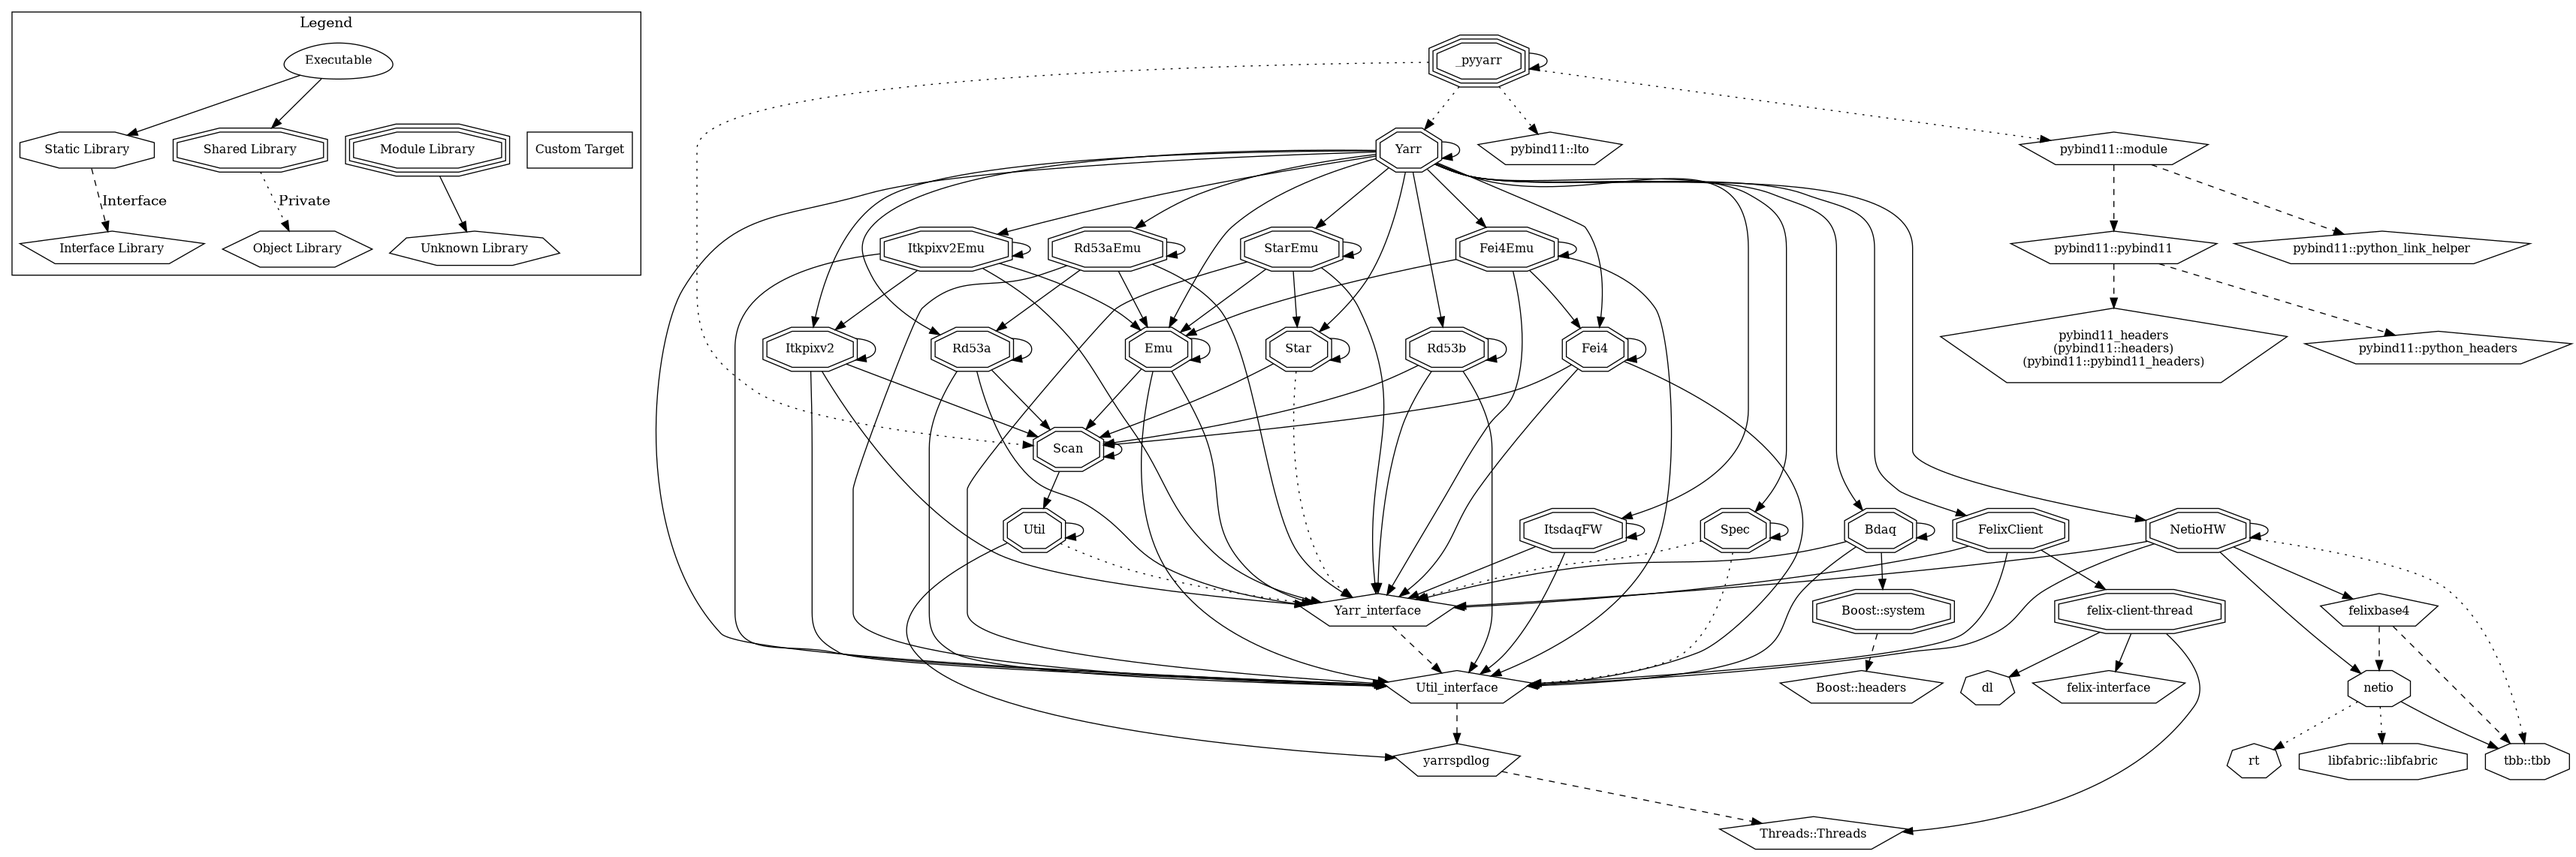
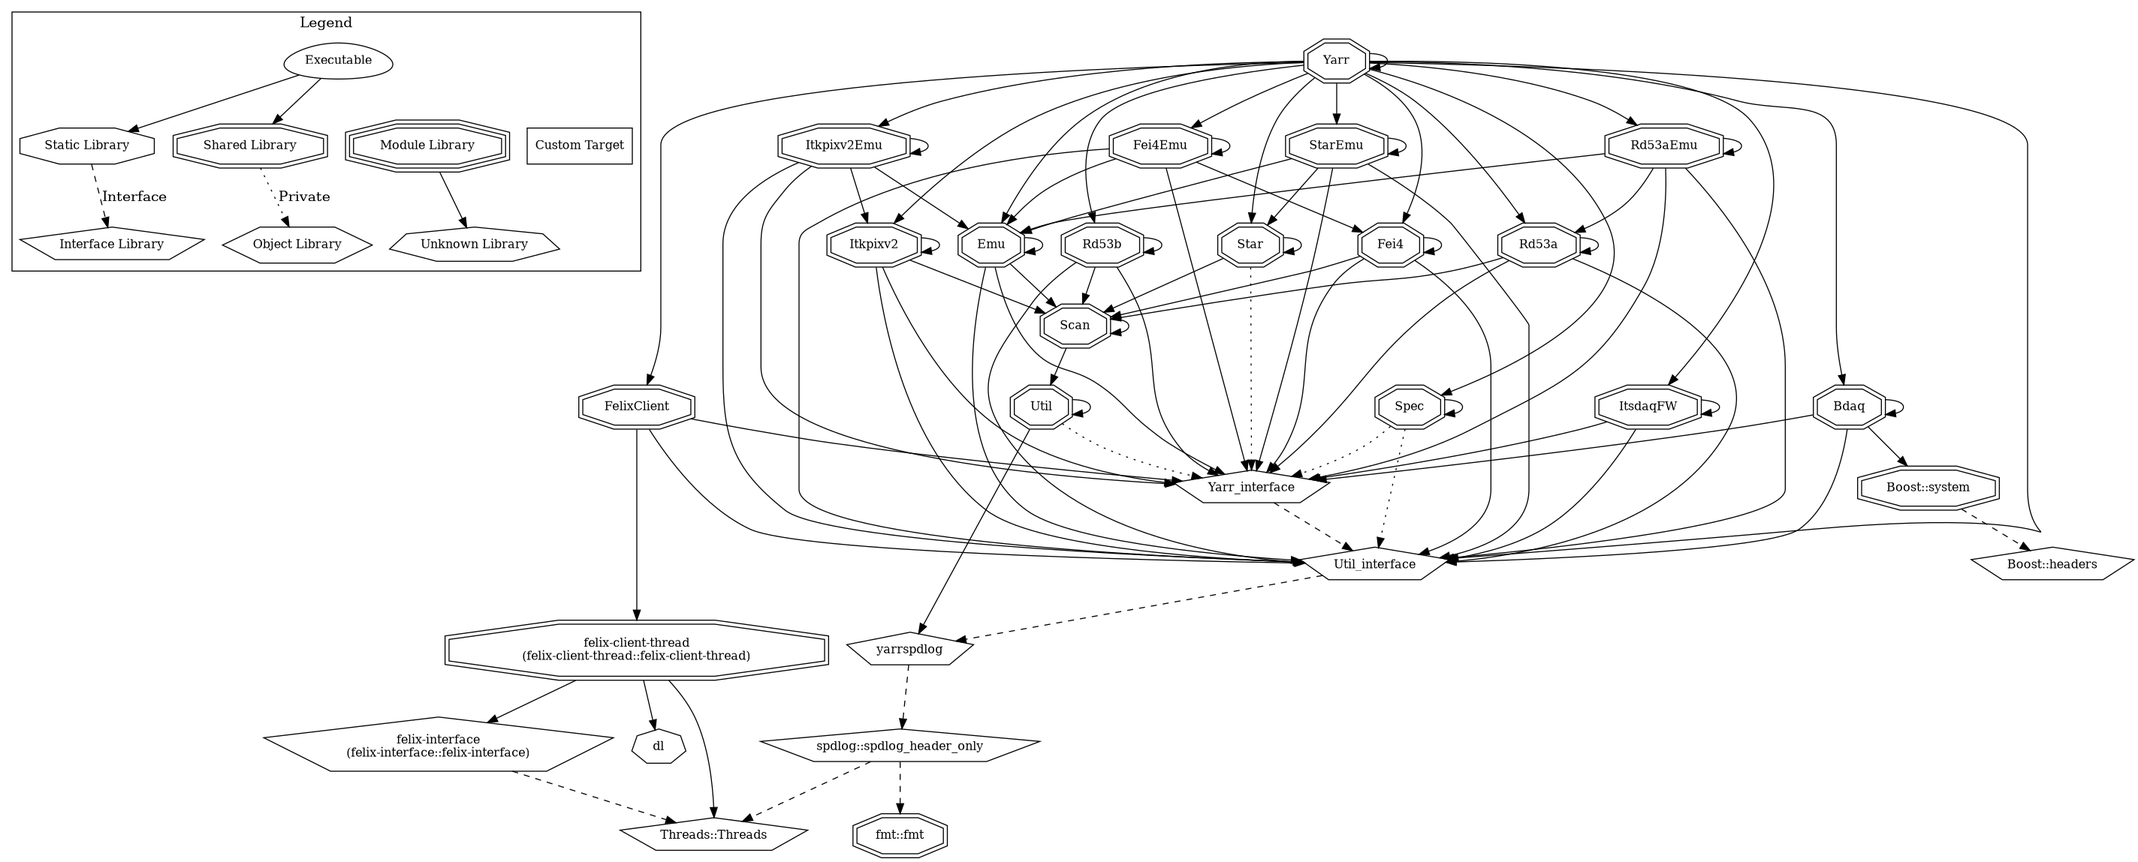
Updated documentation after NetIO removal and FelixClient dependencies fixes (for >=5.2).

diff --git a/docs/consuming_yarr.md b/docs/consuming_yarr.md
@@ -151,8 +151,12 @@ The following CMake targets are exported by Yarr (executables not listed; fully 
 | Yarr::     | _pyyarr             | dynamic library            |                                                              |             |
 |            | felix-interface     | imported interface library | needed for FelixCLient                                       |             |
 |            | felix-client-thread | imported dynamic library   | needed for FelixClient                                       |             |
+| felix-interface::    | felix-interface     | imported interface library | only for FELIX client backends using felix-interface         |   |
+| felix-client-thread::    | felix-client-thread | imported shared library    | only for FELIX client backends using felix-client-thread |   |
+| tdaq::     | felix_interface     | imported interface target            | only for FELIX client backends using TDAQ proxy              |             |
+| tdaq::     | felix_proxy         | imported imported target            | only for FELIX client backends using TDAQ proxy              |             |
 |            | pybind11_headers    | imported interface library | only if python bindings are enabled                          |             |
-|            | yarrspdlog          | imported interface library | needed by Yarr, currently modified version                   |             |
+|            | yarrspdlog          | imported interface library | needed by Yarr                                               |             |
 
 These are organized into CMake components, so one can selectively request them using find_package(Yarr COMPONENTS ...).
 
@@ -172,4 +176,35 @@ If the python bindings are enabled by "YARR_ENABLE_PYTHON" pybind11 is downloade
 ## BDAQ
 BDAQ requires the BOOST::system library.
 ## FelixClient
-FelixClient depends on felix-client-thread which is installed by the function "YARR_ADD_FELIX_CLIENT()" together with its dependency felix-interface. Both of the build systems are patched and the export the targets "felix-client-thread" and "felix-interface" both within the namespace "felix::".
+`FelixClient` is optional and is only built if this controller has been selected and at least one supported FELIX backend is available.
+
+The backend selection is resolved internally by `YARR_ADD_FELIX_CLIENT()` in the following order:
+
+1. **TDAQ proxy backend** 
+   If the target `tdaq::felix_proxy` is already available, Yarr uses the TDAQ FELIX proxy backend.
+
+2. **System FELIX client backend** 
+   If `USE_SYSTEM_FELIX` is enabled, Yarr looks for a pre-installed FELIX package via `find_package(Felix ...)`, typically using `Felix_ROOT`.
+
+3. **Embedded/self-built FELIX client backend** 
+   Otherwise Yarr fetches and builds `felix-interface` and `felix-client-thread` via `FetchContent`.
+
+The resolved backend is exposed internally through `YARR_FELIX_BACKEND`, currently one of:
+
+- `FELIX_PROXY`
+- `FELIX_CLIENT_SYSTEM`
+- `FELIX_CLIENT_EMBEDDED`
+- `NONE`
+
+Downstream projects should normally link only against `Yarr::FelixClient`. They should not rely on a specific backend unless they intentionally want to integrate with the backend directly.
+
+Depending on the selected backend, the following additional imported targets may be present (but not deliberately re-exported):
+
+- `tdaq::felix_proxy`
+- `tdaq::felix_interface`
+- `felix-interface::felix-interface`
+- `felix-client-thread::felix-client-thread`
+
+These backend targets are implementation details of the `FelixClient` component and may differ between build environments.
+
+Depending on the selected backend, Yarr::FelixClient may internally rely on backend-specific dependency targets such as tdaq::felix_proxy, felix::felix-interface, or felix::felix-client-thread. In add_subdirectory() or FetchContent() based integrations, and in some installed-package setups, these targets may also be visible to downstream CMake code, but they are not part of the stable Yarr public interface.
